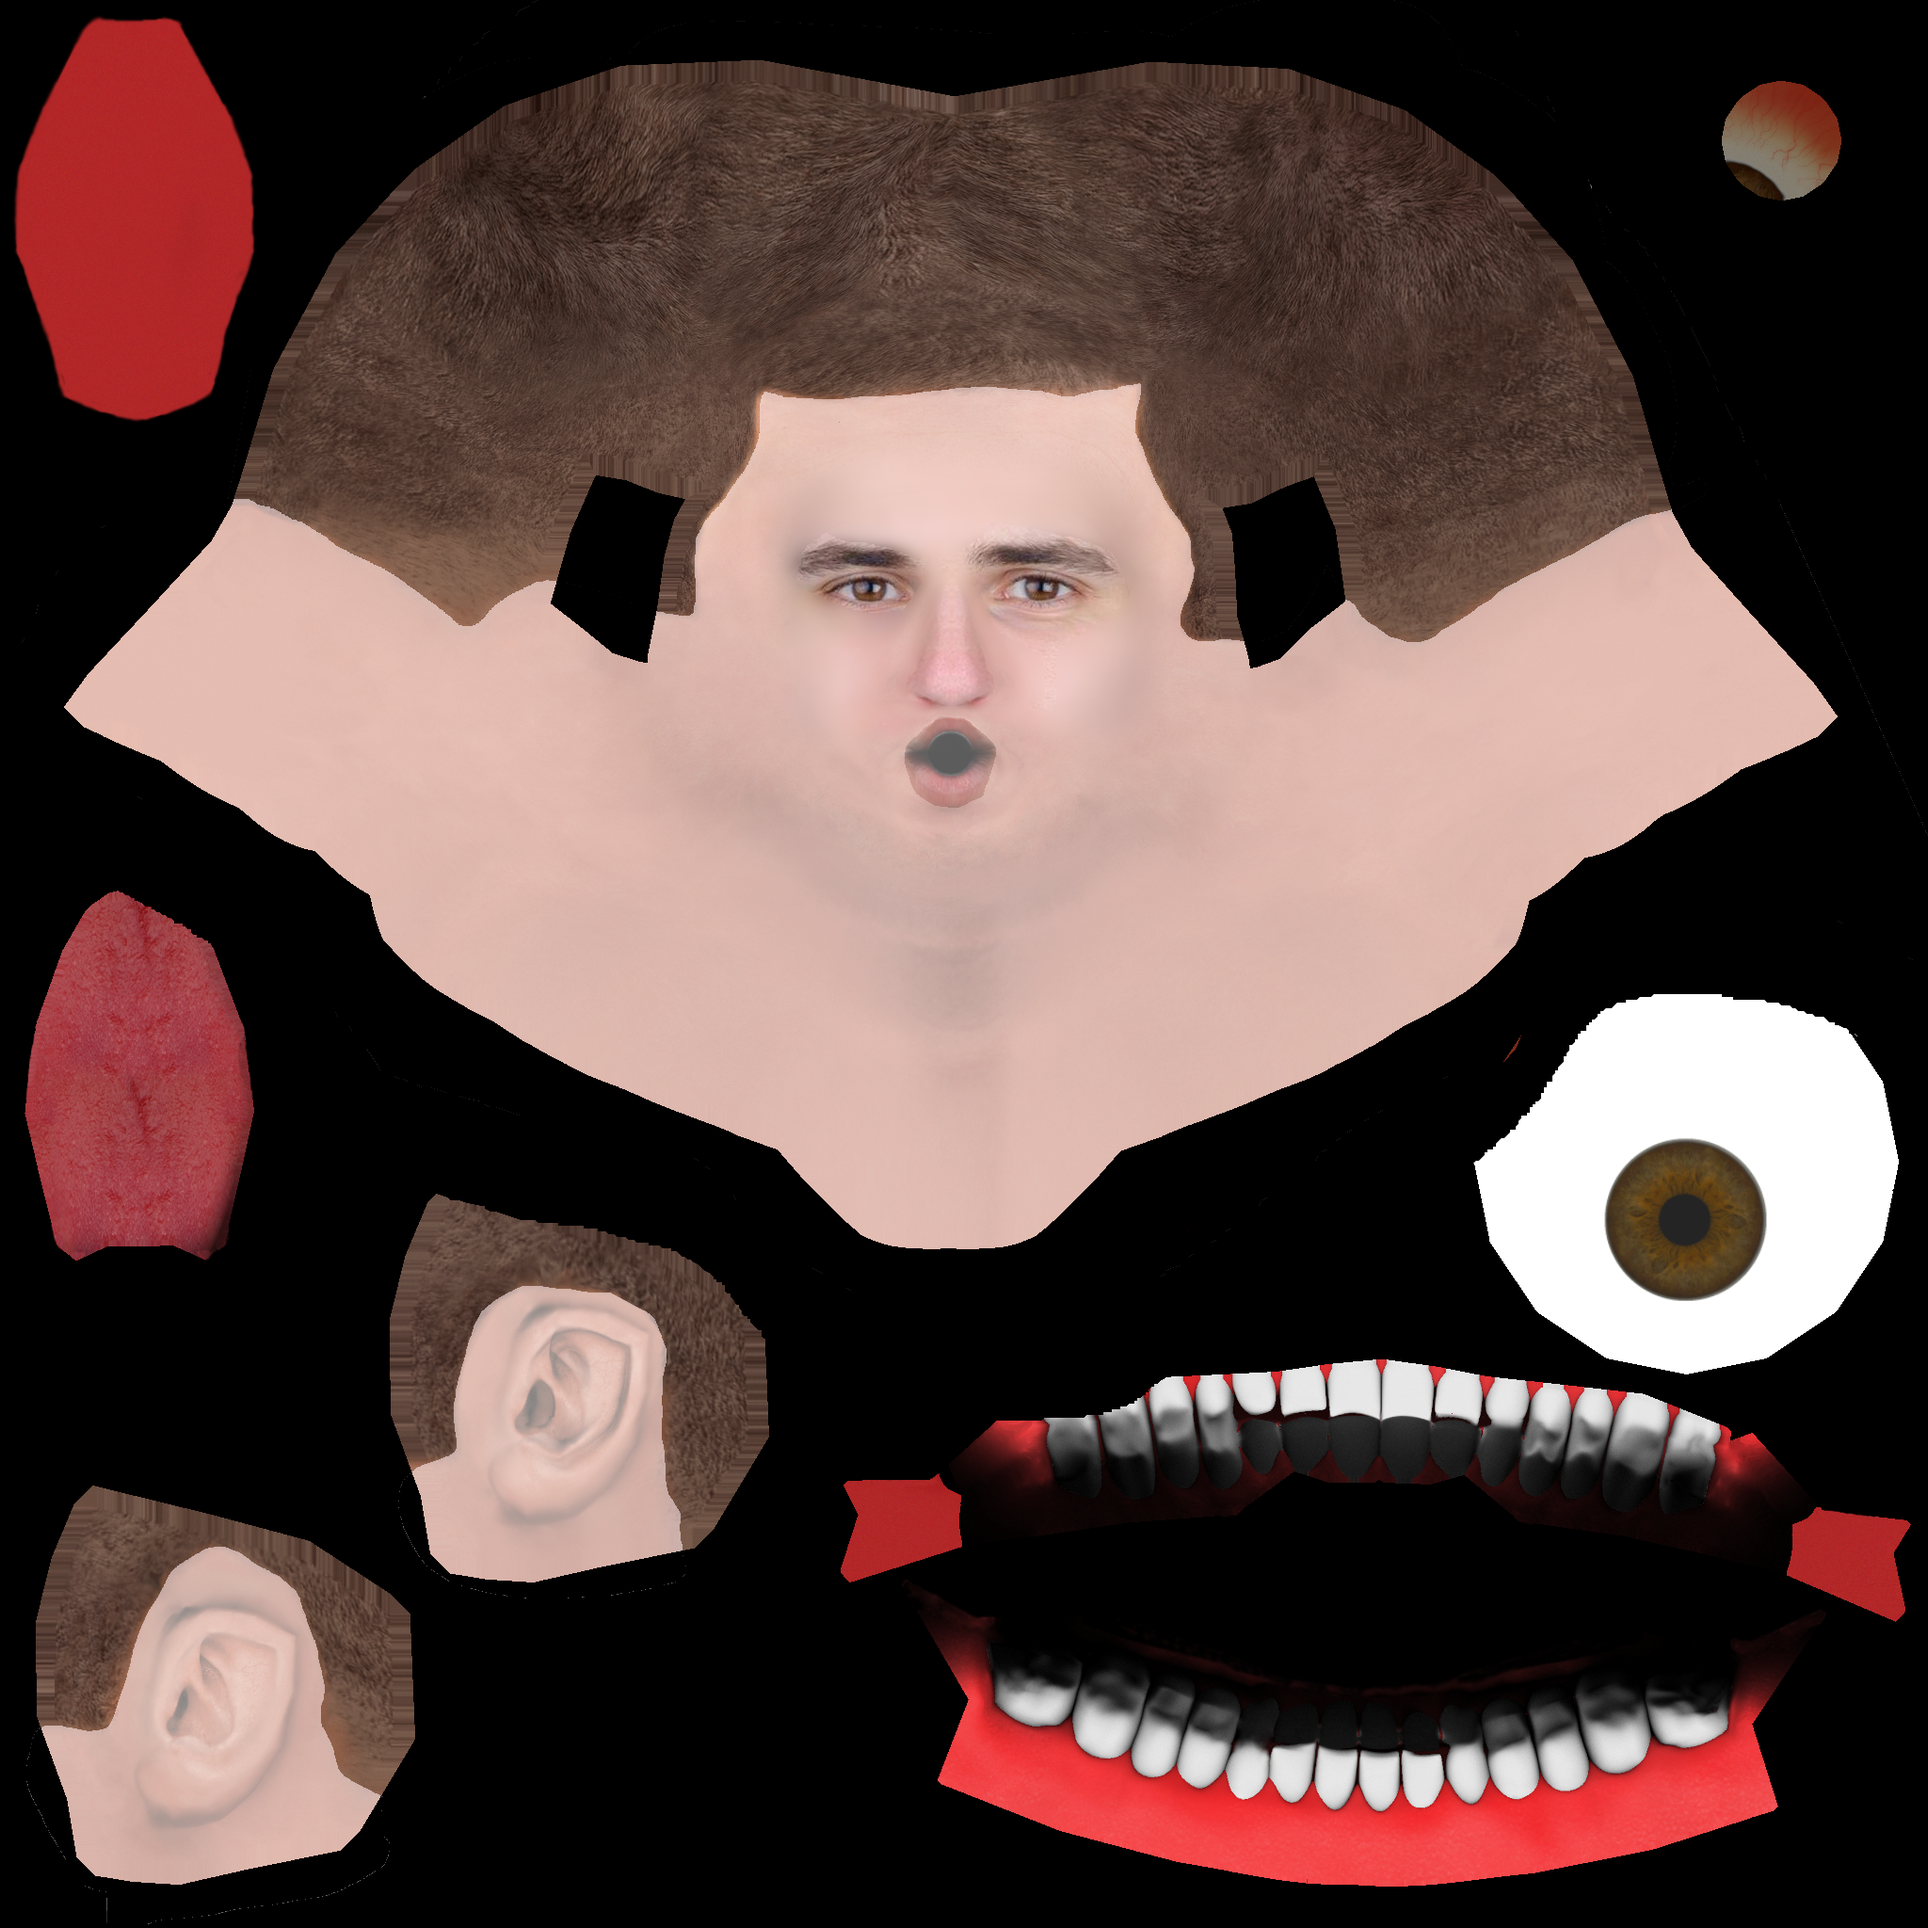
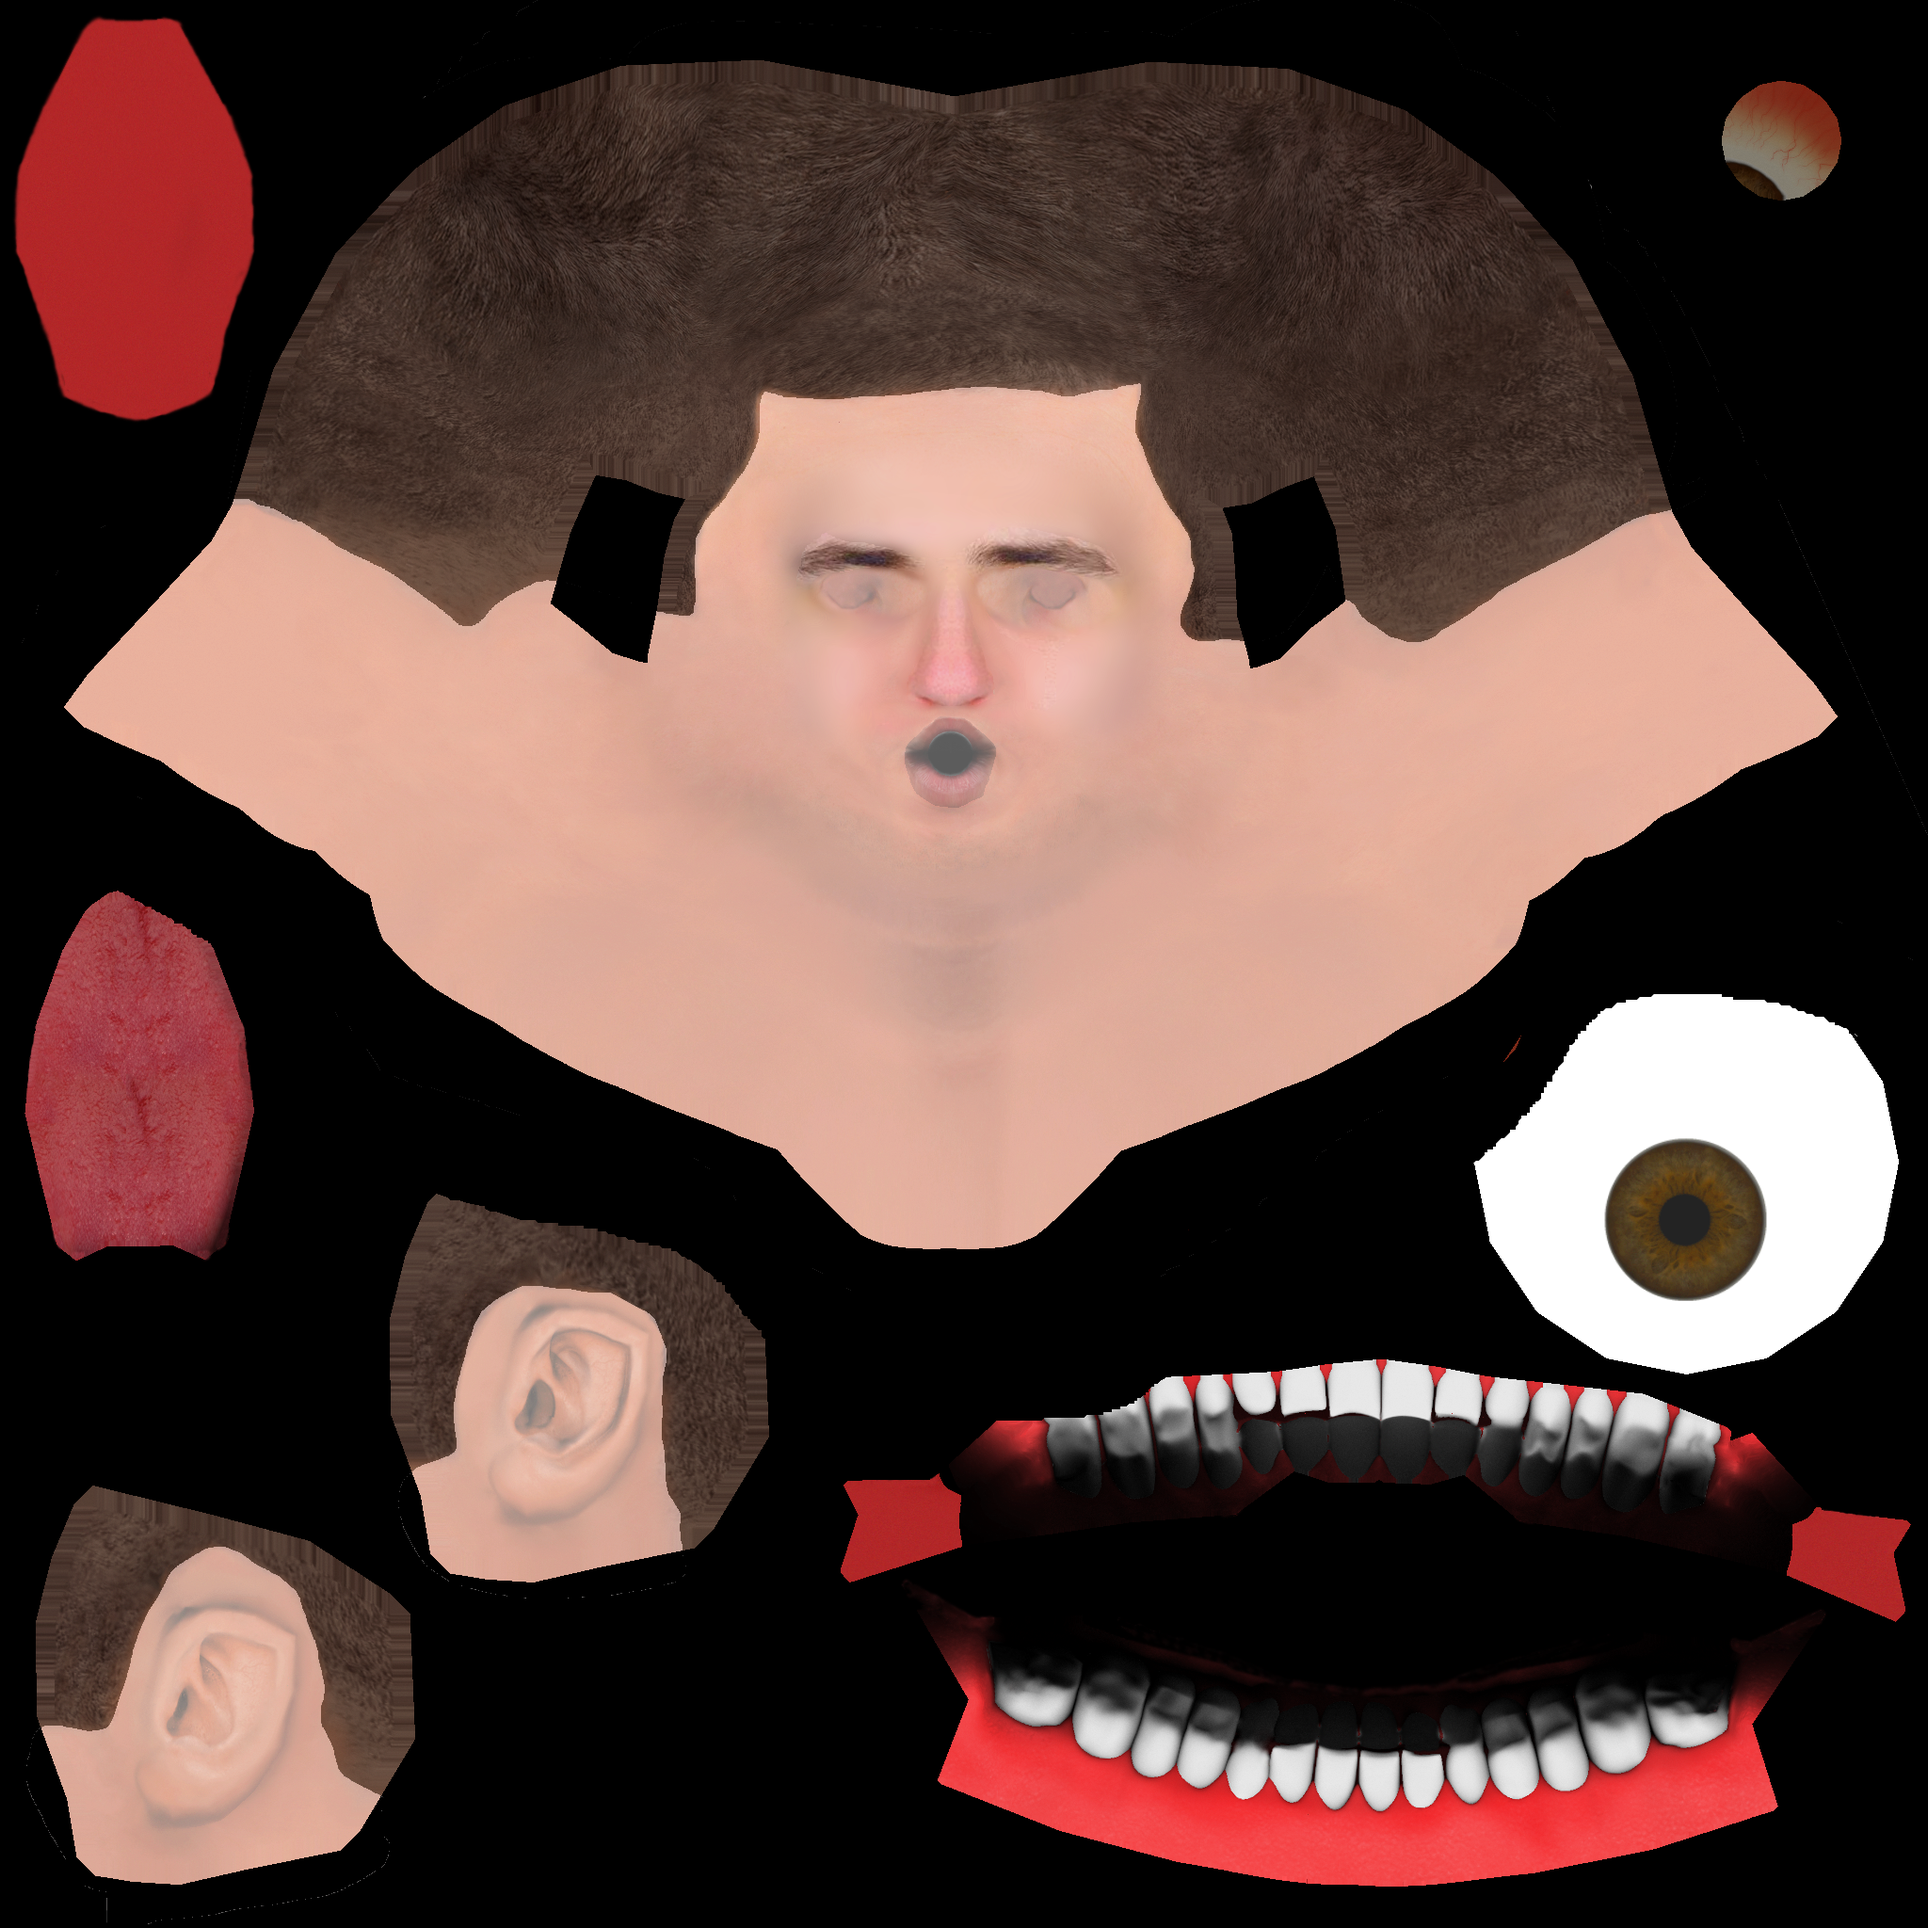
Added initial Alex, Dennis, Ott face textures and improved Carl face texture.

diff --git a/src/main/java/com/carlkuesters/fifachampions/visuals/PlayerSkins.java b/src/main/java/com/carlkuesters/fifachampions/visuals/PlayerSkins.java
@@ -26,9 +26,9 @@ public class PlayerSkins {
         skins.put(Players.ANSELM, new PlayerSkin("anselm", null, null));
         skins.put(Players.LUDIN, new PlayerSkin("ludin", "general_2", new ColorRGBA(0.65f, 0.45f, 0.2f, 1)));
         skins.put(Players.SAMY, new PlayerSkin("samy", null, null));
-        skins.put(Players.DENNIS, new PlayerSkin("default", null, null));
-        skins.put(Players.ALEX, new PlayerSkin("default", null, null));
-        skins.put(Players.OTT, new PlayerSkin("default", null, null));
+        skins.put(Players.DENNIS, new PlayerSkin("dennis", null, null));
+        skins.put(Players.ALEX, new PlayerSkin("alex", "general_1", new ColorRGBA(0.1f, 0.08f, 0.06f, 1)));
+        skins.put(Players.OTT,new PlayerSkin("ott", "general_2", new ColorRGBA(0.7f, 0.43f, 0.2f, 1)));
         skins.put(Players.O2, new PlayerSkin("default", null, null));
         skins.put(Players.ANDI_FRITZ, new PlayerSkin("default", null, null));
         skins.put(Players.MARTIN, new PlayerSkin("default", null, null));
